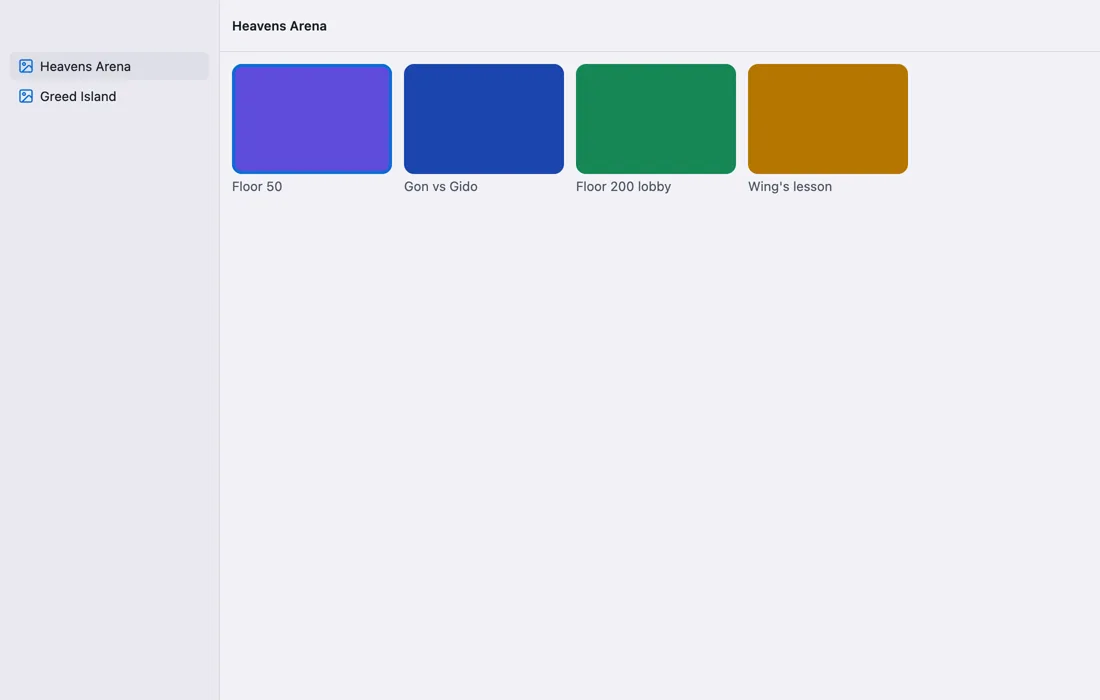
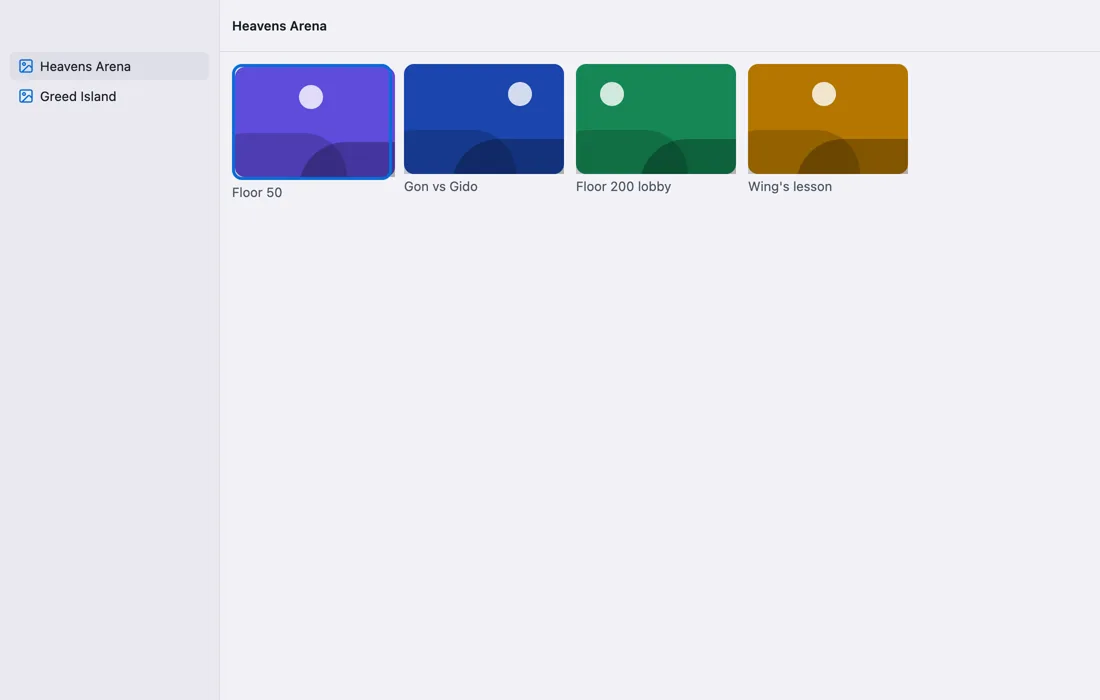
feat(blocks): deeper Mac blocks (plan 731 item 4)
The agent's reply streams in word by word and Send becomes Stop while it
does; the viewer's photos are composed scenes — sky in the theme's series
colour, a sun, two hills — rather than flat swatches; calendar events carry
their start time and clamp to two lines; the notes editor asks for the rows
that fill its pane. Previews re-captured.

diff --git a/examples/blocks/src/viewer/viewer.tsx b/examples/blocks/src/viewer/viewer.tsx
@@ -15,6 +15,83 @@ import { useState } from "react";
 import { albums, photos } from "./data.js";
 import { neighbour } from "./logic.js";
 
+/**
+ * A photo, drawn: a sky in the theme's series colour, a sun and two hills.
+ * Original artwork from shapes — the recipe is the layout and the HUD, and a
+ * consumer's pictures take the scene's place. Every shape is a picture, never
+ * the press target.
+ */
+const Scene = ({
+  sky,
+  variant,
+  width,
+  height,
+  radius,
+}: {
+  readonly sky: string;
+  readonly variant: number;
+  readonly width: number;
+  readonly height: number;
+  readonly radius: number;
+}) => {
+  const sun = Math.round(height * 0.22);
+  const shape = (
+    left: number,
+    top: number,
+    w: number,
+    h: number,
+    fill: string,
+  ) => (
+    <div
+      style={{
+        position: "absolute",
+        left: Math.round(left),
+        top: Math.round(top),
+        width: Math.round(w),
+        height: Math.round(h),
+        borderRadius: 9999,
+        backgroundColor: fill,
+        pointerEvents: "none",
+      }}
+    />
+  );
+  return (
+    <div
+      style={{
+        position: "relative",
+        width,
+        height,
+        overflow: "hidden",
+        borderRadius: radius,
+        backgroundColor: sky,
+        pointerEvents: "none",
+      }}
+    >
+      {shape(
+        width * (0.15 + (variant % 3) * 0.25),
+        height * 0.16,
+        sun,
+        sun,
+        "#FFFFFFCC",
+      )}
+      {shape(
+        -width * 0.2,
+        height * 0.6,
+        width * 0.9,
+        height * 0.8,
+        "#0000002E",
+      )}
+      {shape(
+        width * (0.3 + (variant % 2) * 0.1),
+        height * 0.68,
+        width,
+        height * 0.85,
+        "#00000047",
+      )}
+    </div>
+  );
+};
+
 export const Viewer = ({ platform }: { readonly platform?: PlatformName }) => {
   const theme = useTheme();
   const tints = seriesColors(theme);
@@ -65,10 +142,20 @@ export const Viewer = ({ platform }: { readonly platform?: PlatformName }) => {
           testId="open-photo"
           style={{
             position: "relative",
+            display: "flex",
             flexGrow: 1,
-            backgroundColor: tints[current.value.tint],
+            alignItems: "center",
+            justifyContent: "center",
+            backgroundColor: theme.colors.background,
           }}
         >
+          <Scene
+            sky={tints[current.value.tint] ?? theme.colors.muted}
+            variant={Number(current.value.id.slice(1))}
+            width={760}
+            height={500}
+            radius={theme.radius.lg}
+          />
           <Stack
             direction="row"
             gap="sm"
@@ -142,19 +229,25 @@ export const Viewer = ({ platform }: { readonly platform?: PlatformName }) => {
                 width: 160,
               }}
             >
+              {/* The scene is a picture, not a target: the press is the
+                  thumbnail's, which a hit on the scene would not reach. */}
               <div
                 style={{
-                  height: 110,
-                  // The swatch is a picture, not a target: the press is the
-                  // thumbnail's, which a hit on this box would not reach.
-                  pointerEvents: "none",
                   borderRadius: theme.radius.md,
-                  backgroundColor: tints[photo.tint],
+                  pointerEvents: "none",
                   ...(photo.id === chosen
                     ? { borderWidth: 3, borderColor: theme.colors.primary }
                     : {}),
                 }}
-              />
+              >
+                <Scene
+                  sky={tints[photo.tint] ?? theme.colors.muted}
+                  variant={Number(photo.id.slice(1))}
+                  width={160}
+                  height={110}
+                  radius={theme.radius.md}
+                />
+              </div>
               <Text tone="muted">{photo.caption}</Text>
             </div>
           ))}

diff --git a/examples/blocks/src/agent/agent.tsx b/examples/blocks/src/agent/agent.tsx
@@ -10,18 +10,33 @@ import { SourceList, Window, WindowToolbar } from "@gpuixui/shell";
 import type { PlatformName } from "@gpuixui/tokens";
 import { useTheme } from "@gpuixui/tokens/react";
 import * as Arr from "effect/Array";
-import { useState } from "react";
+import { useEffect, useState } from "react";
 import { sessions, touched, transcript } from "./data.js";
-import { send } from "./logic.js";
+import { revealed, send, wordCount } from "./logic.js";
 
 export const Agent = ({ platform }: { readonly platform?: PlatformName }) => {
   const theme = useTheme();
   const [session, setSession] = useState<string>("s1");
   const [turns, setTurns] = useState(transcript);
   const [draft, setDraft] = useState("");
+  // The newest reply streams in word by word; `null` is no stream running.
+  const [streamed, setStreamed] = useState<number | null>(null);
+  const last = turns.at(-1);
+  const streaming =
+    streamed !== null && last !== undefined && streamed < wordCount(last.text);
+
+  useEffect(() => {
+    if (!streaming) return;
+    const timer = setTimeout(() => setStreamed((n) => (n ?? 0) + 1), 45);
+    return () => clearTimeout(timer);
+  }, [streaming, streamed]);
+
   const submit = () => {
-    setTurns(send(turns, draft));
+    const next = send(turns, draft);
+    if (next === turns) return;
+    setTurns(next);
     setDraft("");
+    setStreamed(0);
   };
 
   return (
@@ -90,7 +105,9 @@ export const Agent = ({ platform }: { readonly platform?: PlatformName }) => {
               size="xs"
             />
             <Text style={{ flexGrow: 1, flexBasis: 0, minWidth: 0 }}>
-              {turn.text}
+              {turn === last && streamed !== null
+                ? revealed(turn.text, streamed)
+                : turn.text}
             </Text>
           </Stack>
         ))}
@@ -113,9 +130,19 @@ export const Agent = ({ platform }: { readonly platform?: PlatformName }) => {
           onSubmit={submit}
           style={{ flexGrow: 1 }}
         />
-        <Button testId="send" onActivate={submit}>
-          Send
-        </Button>
+        {streaming ? (
+          <Button
+            testId="stop"
+            variant="outline"
+            onActivate={() => setStreamed(null)}
+          >
+            Stop
+          </Button>
+        ) : (
+          <Button testId="send" onActivate={submit}>
+            Send
+          </Button>
+        )}
       </Stack>
     </Window>
   );

diff --git a/examples/blocks/src/calendar/calendar.tsx b/examples/blocks/src/calendar/calendar.tsx
@@ -18,6 +18,10 @@ const HOURS = 11;
 const ROW = 40;
 const DAYS = ["Mon", "Tue", "Wed", "Thu", "Fri", "Sat", "Sun"] as const;
 
+/** `9.5` → `9:30`. */
+const hourLabel = (hour: number): string =>
+  `${Math.floor(hour)}:${String(Math.round((hour % 1) * 60)).padStart(2, "0")}`;
+
 export const CalendarBlock = ({
   platform,
 }: {
@@ -163,7 +167,12 @@ export const CalendarBlock = ({
                           overflow: "hidden",
                         }}
                       >
-                        <Text>{event.title}</Text>
+                        <Text role="caption" tone="muted">
+                          {hourLabel(event.start)}
+                        </Text>
+                        <Text role="caption" clamp={2}>
+                          {event.title}
+                        </Text>
                       </div>
                     ) : (
                       <div key={cell} style={{ flexGrow: 1, flexBasis: 0 }} />

diff --git a/examples/blocks/src/mac-blocks.logic.test.ts b/examples/blocks/src/mac-blocks.logic.test.ts
@@ -11,7 +11,7 @@
 import * as Arr from "effect/Array";
 import { describe, expect, it } from "vitest";
 import { transcript } from "./agent/data.js";
-import { send } from "./agent/logic.js";
+import { revealed, send } from "./agent/logic.js";
 import { events } from "./calendar/data.js";
 import { layoutDay, visible, weekStart } from "./calendar/logic.js";
 import { results } from "./launcher/data.js";
@@ -90,6 +90,14 @@ describe("agent", () => {
       "you",
       "agent",
     ]);
+  });
+});
+
+describe("agent streaming", () => {
+  it("reveals a reply word by word, then whole", () => {
+    expect(revealed("On it — reading the files", 2)).toBe("On it");
+    expect(revealed("On it", 9)).toBe("On it");
+    expect(revealed("On it", 0)).toBe("");
   });
 });
 

diff --git a/examples/blocks/src/notes/notes.tsx b/examples/blocks/src/notes/notes.tsx
@@ -95,7 +95,9 @@ export const Notes = ({ platform }: { readonly platform?: PlatformName }) => {
               onValueChange={(body) =>
                 setAll(editNote(all, current.value.id, body))
               }
-              style={{ flexGrow: 1 }}
+              // A textarea's height is rows (the runtime's own control), so
+              // the editor asks for enough to fill the pane.
+              minRows={24}
             />
           </Stack>
         ) : null}

diff --git a/examples/blocks/src/agent/logic.ts b/examples/blocks/src/agent/logic.ts
@@ -23,3 +23,14 @@ export const send = (
     },
   ]);
 };
+
+/** The first `words` words of a reply as it streams; all of it at the end. */
+export const revealed = (text: string, words: number): string => {
+  const all = text.split(" ");
+  return words >= all.length
+    ? text
+    : all.slice(0, Math.max(0, words)).join(" ");
+};
+
+/** How many words a reply streams in. */
+export const wordCount = (text: string): number => text.split(" ").length;

diff --git a/examples/blocks/src/mac-blocks.test.tsx b/examples/blocks/src/mac-blocks.test.tsx
@@ -98,6 +98,9 @@ describe("the Mac-app blocks", () => {
     press(r, "send");
     expect(has(r, "turn-t3")).toBe(true);
     expect(has(r, "turn-t4")).toBe(true);
+    // The reply streams: Send is Stop until the last word lands.
+    expect(has(r, "stop")).toBe(true);
+    expect(has(r, "send")).toBe(false);
   });
 
   it("calendar: switching a calendar off hides its events", () => {

diff --git a/.agents/slop/plans/731-launch-quality-pass.md b/.agents/slop/plans/731-launch-quality-pass.md
@@ -19,7 +19,7 @@ each item landing as its own commit with a test that can fail.
 | 1 | The account menu's eight failing behaviour cases | components behaviour is green — **done**: test drift from PR #1's handled-rows rule, not a product bug (`0d2c2d0eb`) |
 | 2 | Press routing: no painted or positioned part swallows its control's press | `examples/blocks/src/press-routing.test.tsx` lists nothing across every block and example — **done**: 46 → 0 (`1dae8866b`) |
 | 3 | `Select` as AppKit's pop-up button | **done**: the trigger had no chevron at all; it now ends in shadcn's chevron, and on darwin is a raised face with AppKit's up/down accent capsule (`select-popup.test.tsx`) |
-| 4 | Deepen the Mac blocks | launcher on `CommandMenu` semantics, a streamed agent reply, real pictures in the viewer, a readable calendar, an editor that fills its pane; captures re-taken |
+| 4 | Deepen the Mac blocks | **done**: the agent's reply streams word by word with Stop; the viewer's photos are composed scenes (sky, sun, hills) instead of flat swatches; calendar events carry their time and clamp to two lines; the notes editor fills its pane; captures re-taken. **Kept**: the launcher keeps its own ranked list rather than `CommandMenu` (the ranking is its point and is tested) |
 | 5 | A Hunter License block | a HxH-themed app window in the block contract, page and capture |
 | 6 | By-eye pass in real windows | every Mac block opened natively and captured; needs the macOS privacy prompt answered |
 
